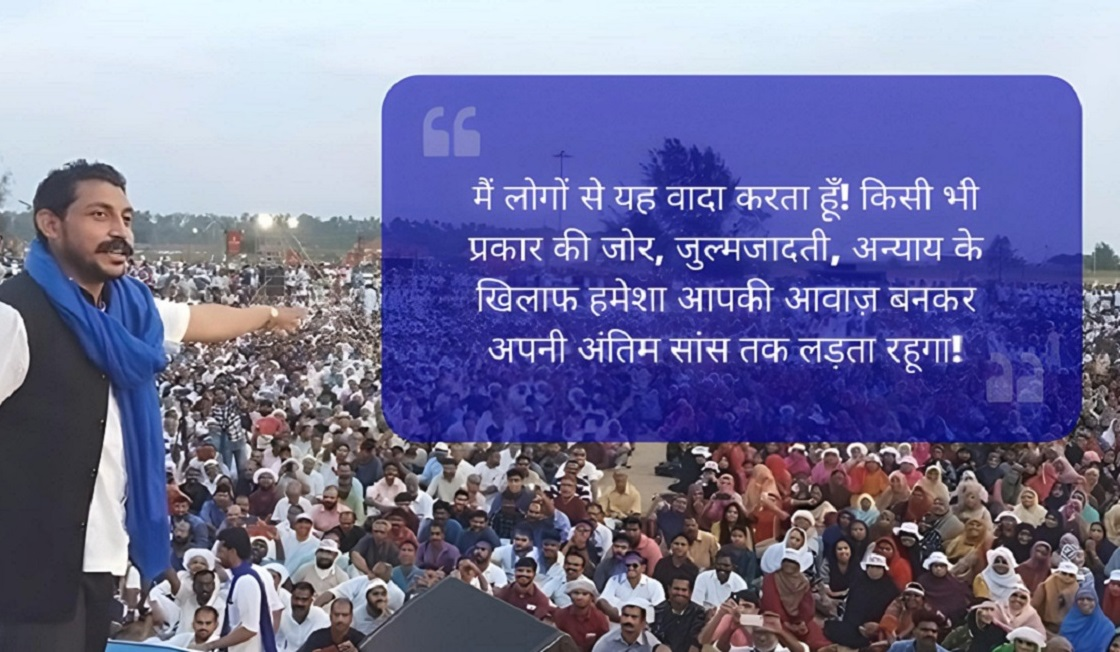
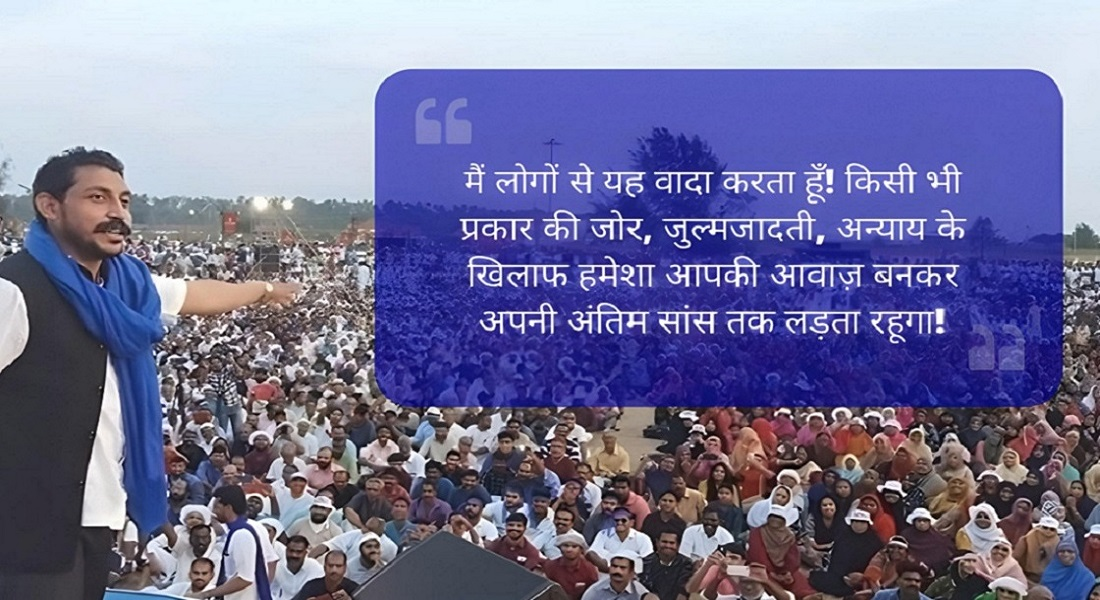
image

diff --git a/css/styles.css b/css/styles.css
@@ -148,7 +148,6 @@ body {
     }
 }
 
-/* Hero Section Styles */
 .hero-container {
     display: flex;
     justify-content: space-between;
@@ -166,7 +165,7 @@ body {
 
 .hero-container .image-1,
 .hero-container .image-3 {
-    width: 15%;
+    width: 24%;
     height: 400px;
     object-fit: cover;
     border-radius: 8px;
@@ -176,8 +175,9 @@ body {
     width: 68%;
     height: 400px;
     background-image: url('/images/poster1.png');
-    background-size: cover;
+    background-size: contain;
     background-position: center;
+    background-repeat: no-repeat;
     border-radius: 8px;
     transition: background-image 0.5s ease;
 }
@@ -207,7 +207,6 @@ body {
         height: 200px;
     }
 }
-
 /* Disclaimer Styles */
 .Disclaimer {
     color: #fff !important;
